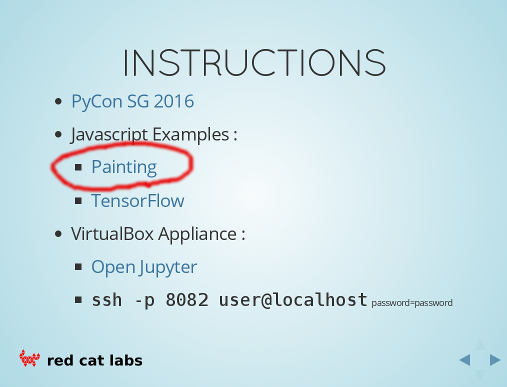
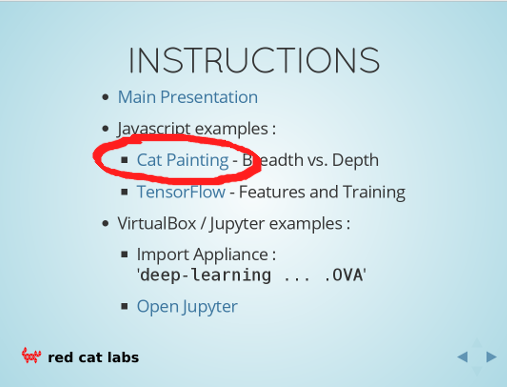
Updated local launch screenshots

diff --git a/presentation/reveal.js-2.6.2/index.html b/presentation/reveal.js-2.6.2/index.html
@@ -76,10 +76,12 @@ This is just a cover page - with various essential instructions...
 <section>
  <h2>Instructions</h2>
  <ul class="fix-spacing">
-  <li>Main Presentation : 
-    <!-- <a href="./FOSSASIA-2016.html" target=_blank>FOSSASIA 2016</a> !-->
-    <!-- <a href="./PyConSG-2016.html" target=_blank>PyCon SG 2016</a> !-->
-    <a href="./DataScienceSG-2016.html" target=_blank>DataScienceSG 2016</a>
+  <li>
+    <!-- <a href="./FOSSASIA-2016.html" target=_blank> !-->
+    <!-- <a href="./PyConSG-2016.html" target=_blank> !-->
+    <a href="./DataScienceSG-2016.html" target=_blank>
+      Main Presentation
+    </a>
   </li>
   <li>Javascript examples :</li>
   <li style="list-style-type:none">

diff --git a/presentation/reveal.js-2.6.2/DataScienceSG-2016.html b/presentation/reveal.js-2.6.2/DataScienceSG-2016.html
@@ -64,13 +64,12 @@ table.table-fix {
 
 10.00am - 11.00am: Sharing on the basics of deep learning and the math behind it [core]
 
-  Intro
-
-  15 mins:
+  10 mins:
+    Intro
     Initial 'what can it do' slides 
-    Basic mathematics
 
   15 mins:
+    Basic mathematics
     ConvnetJS : cat drawing
 
   10 mins:
